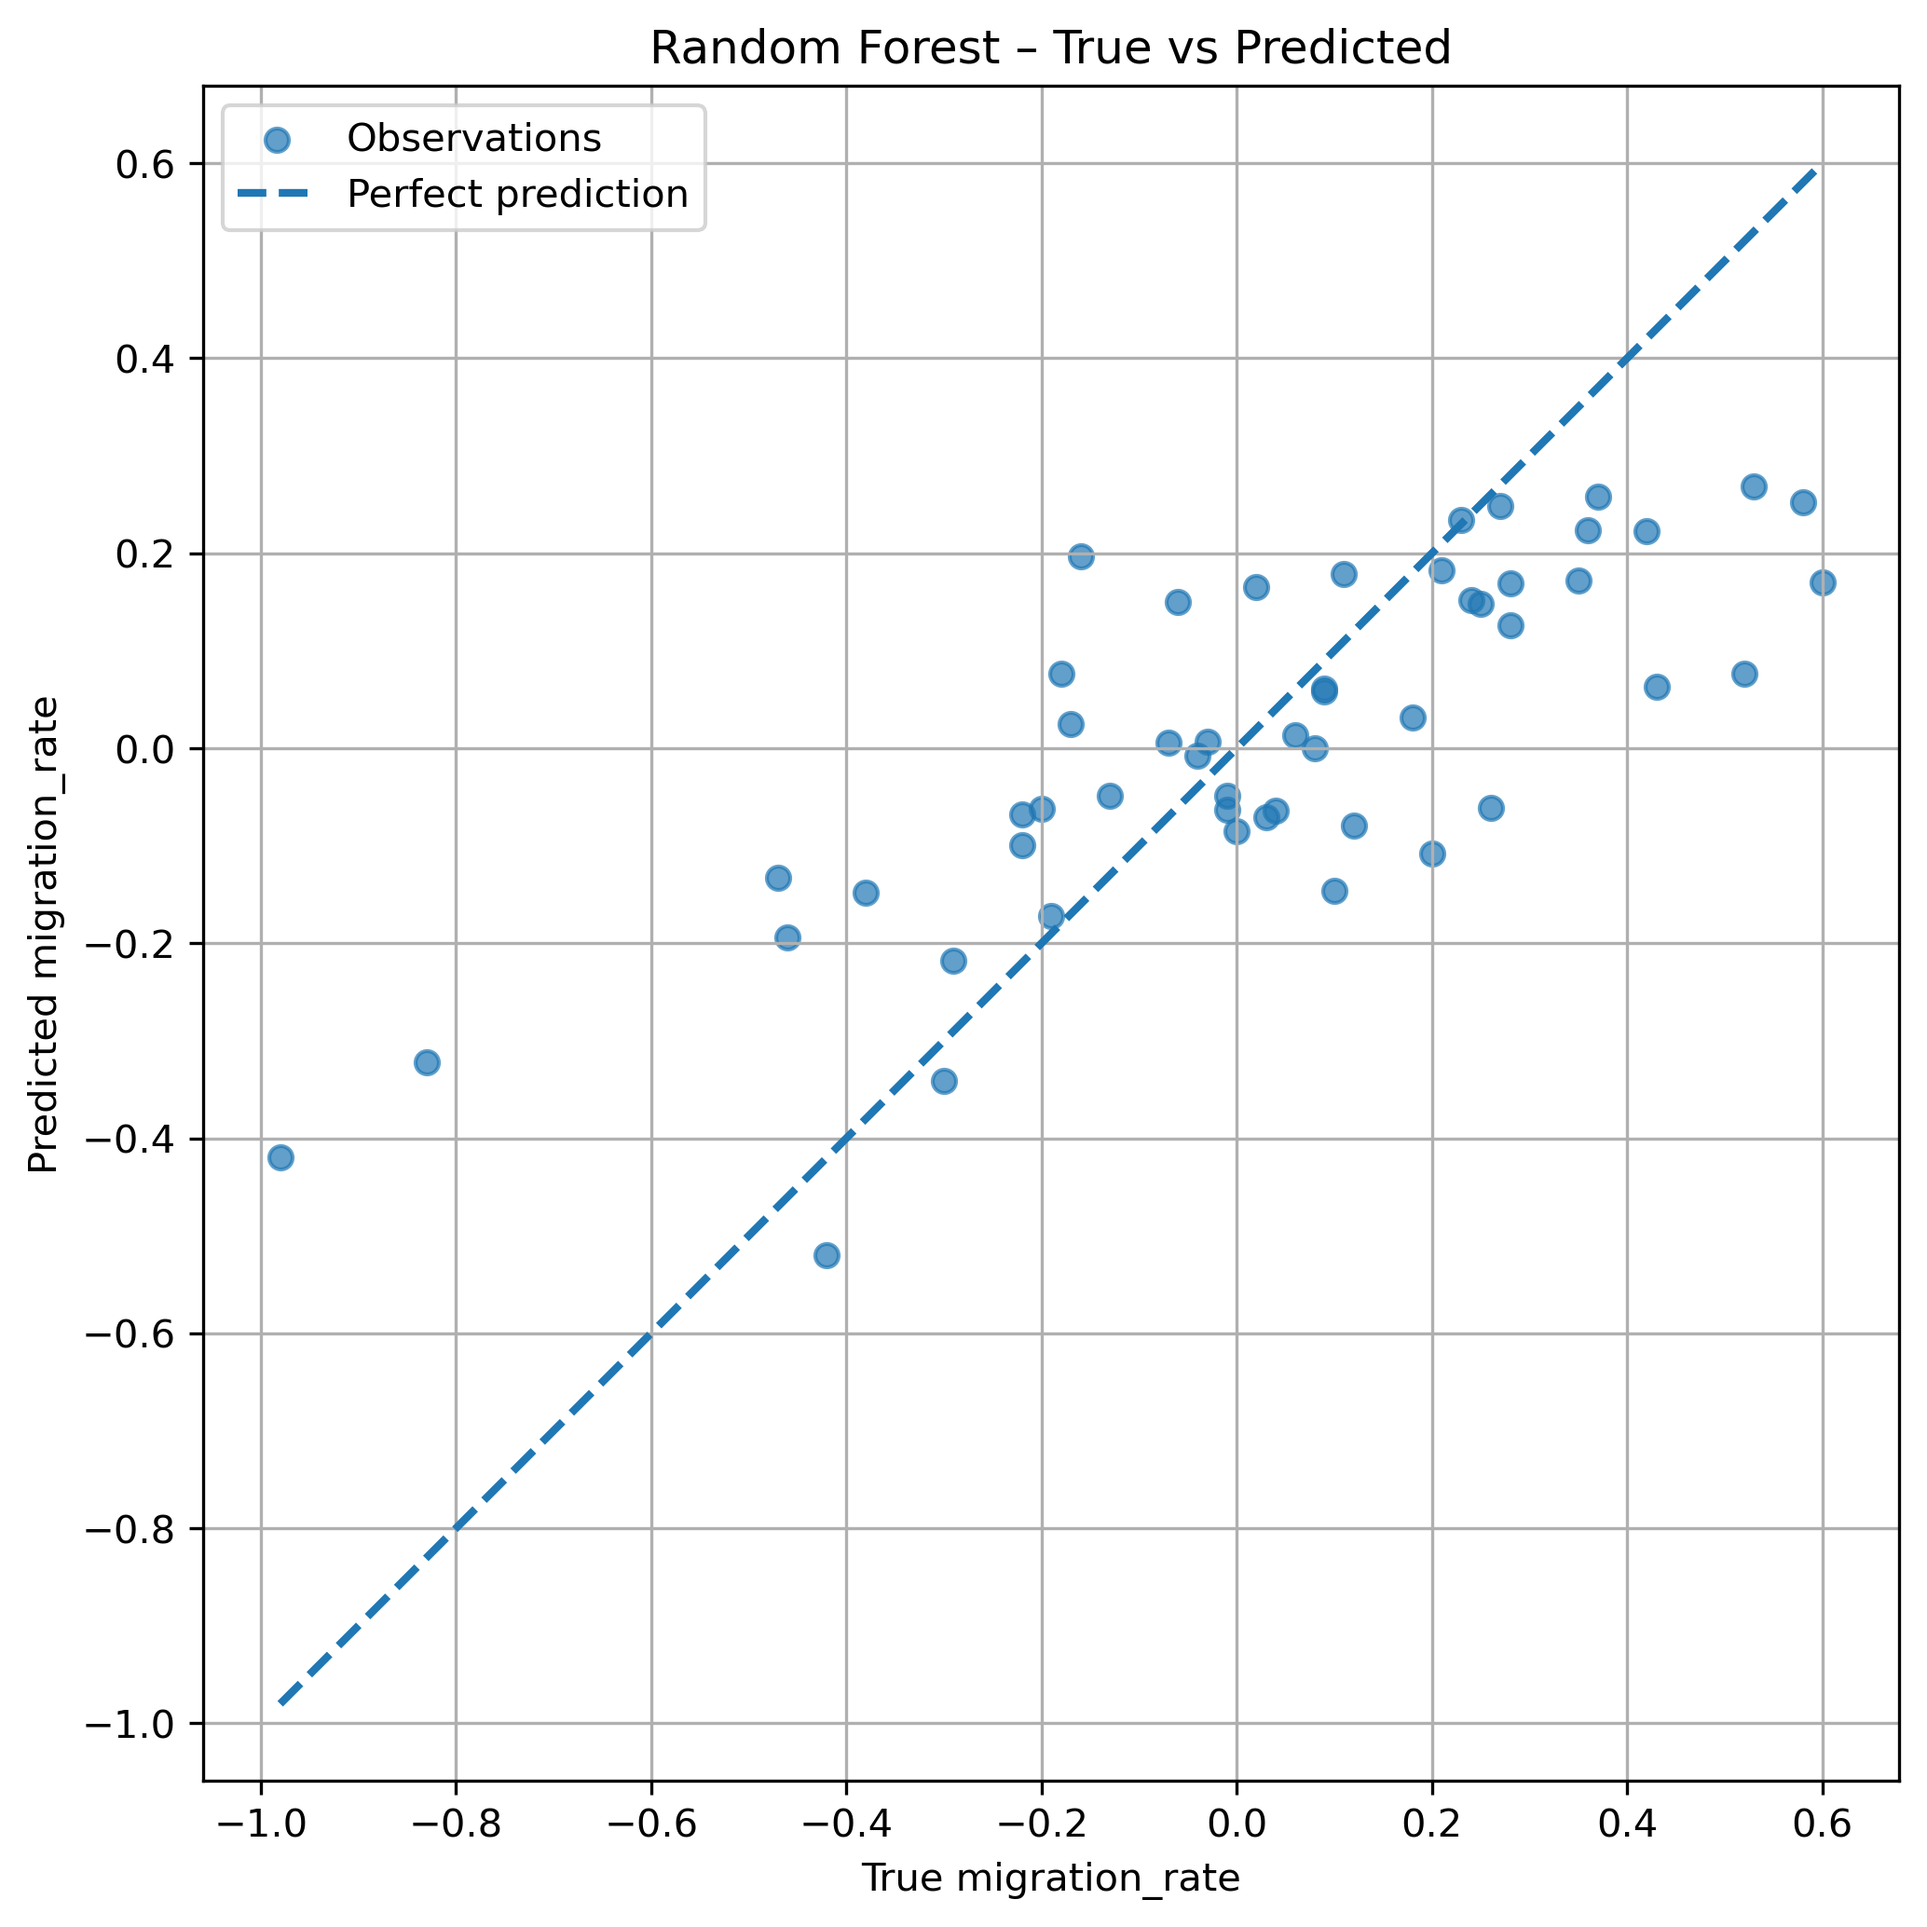
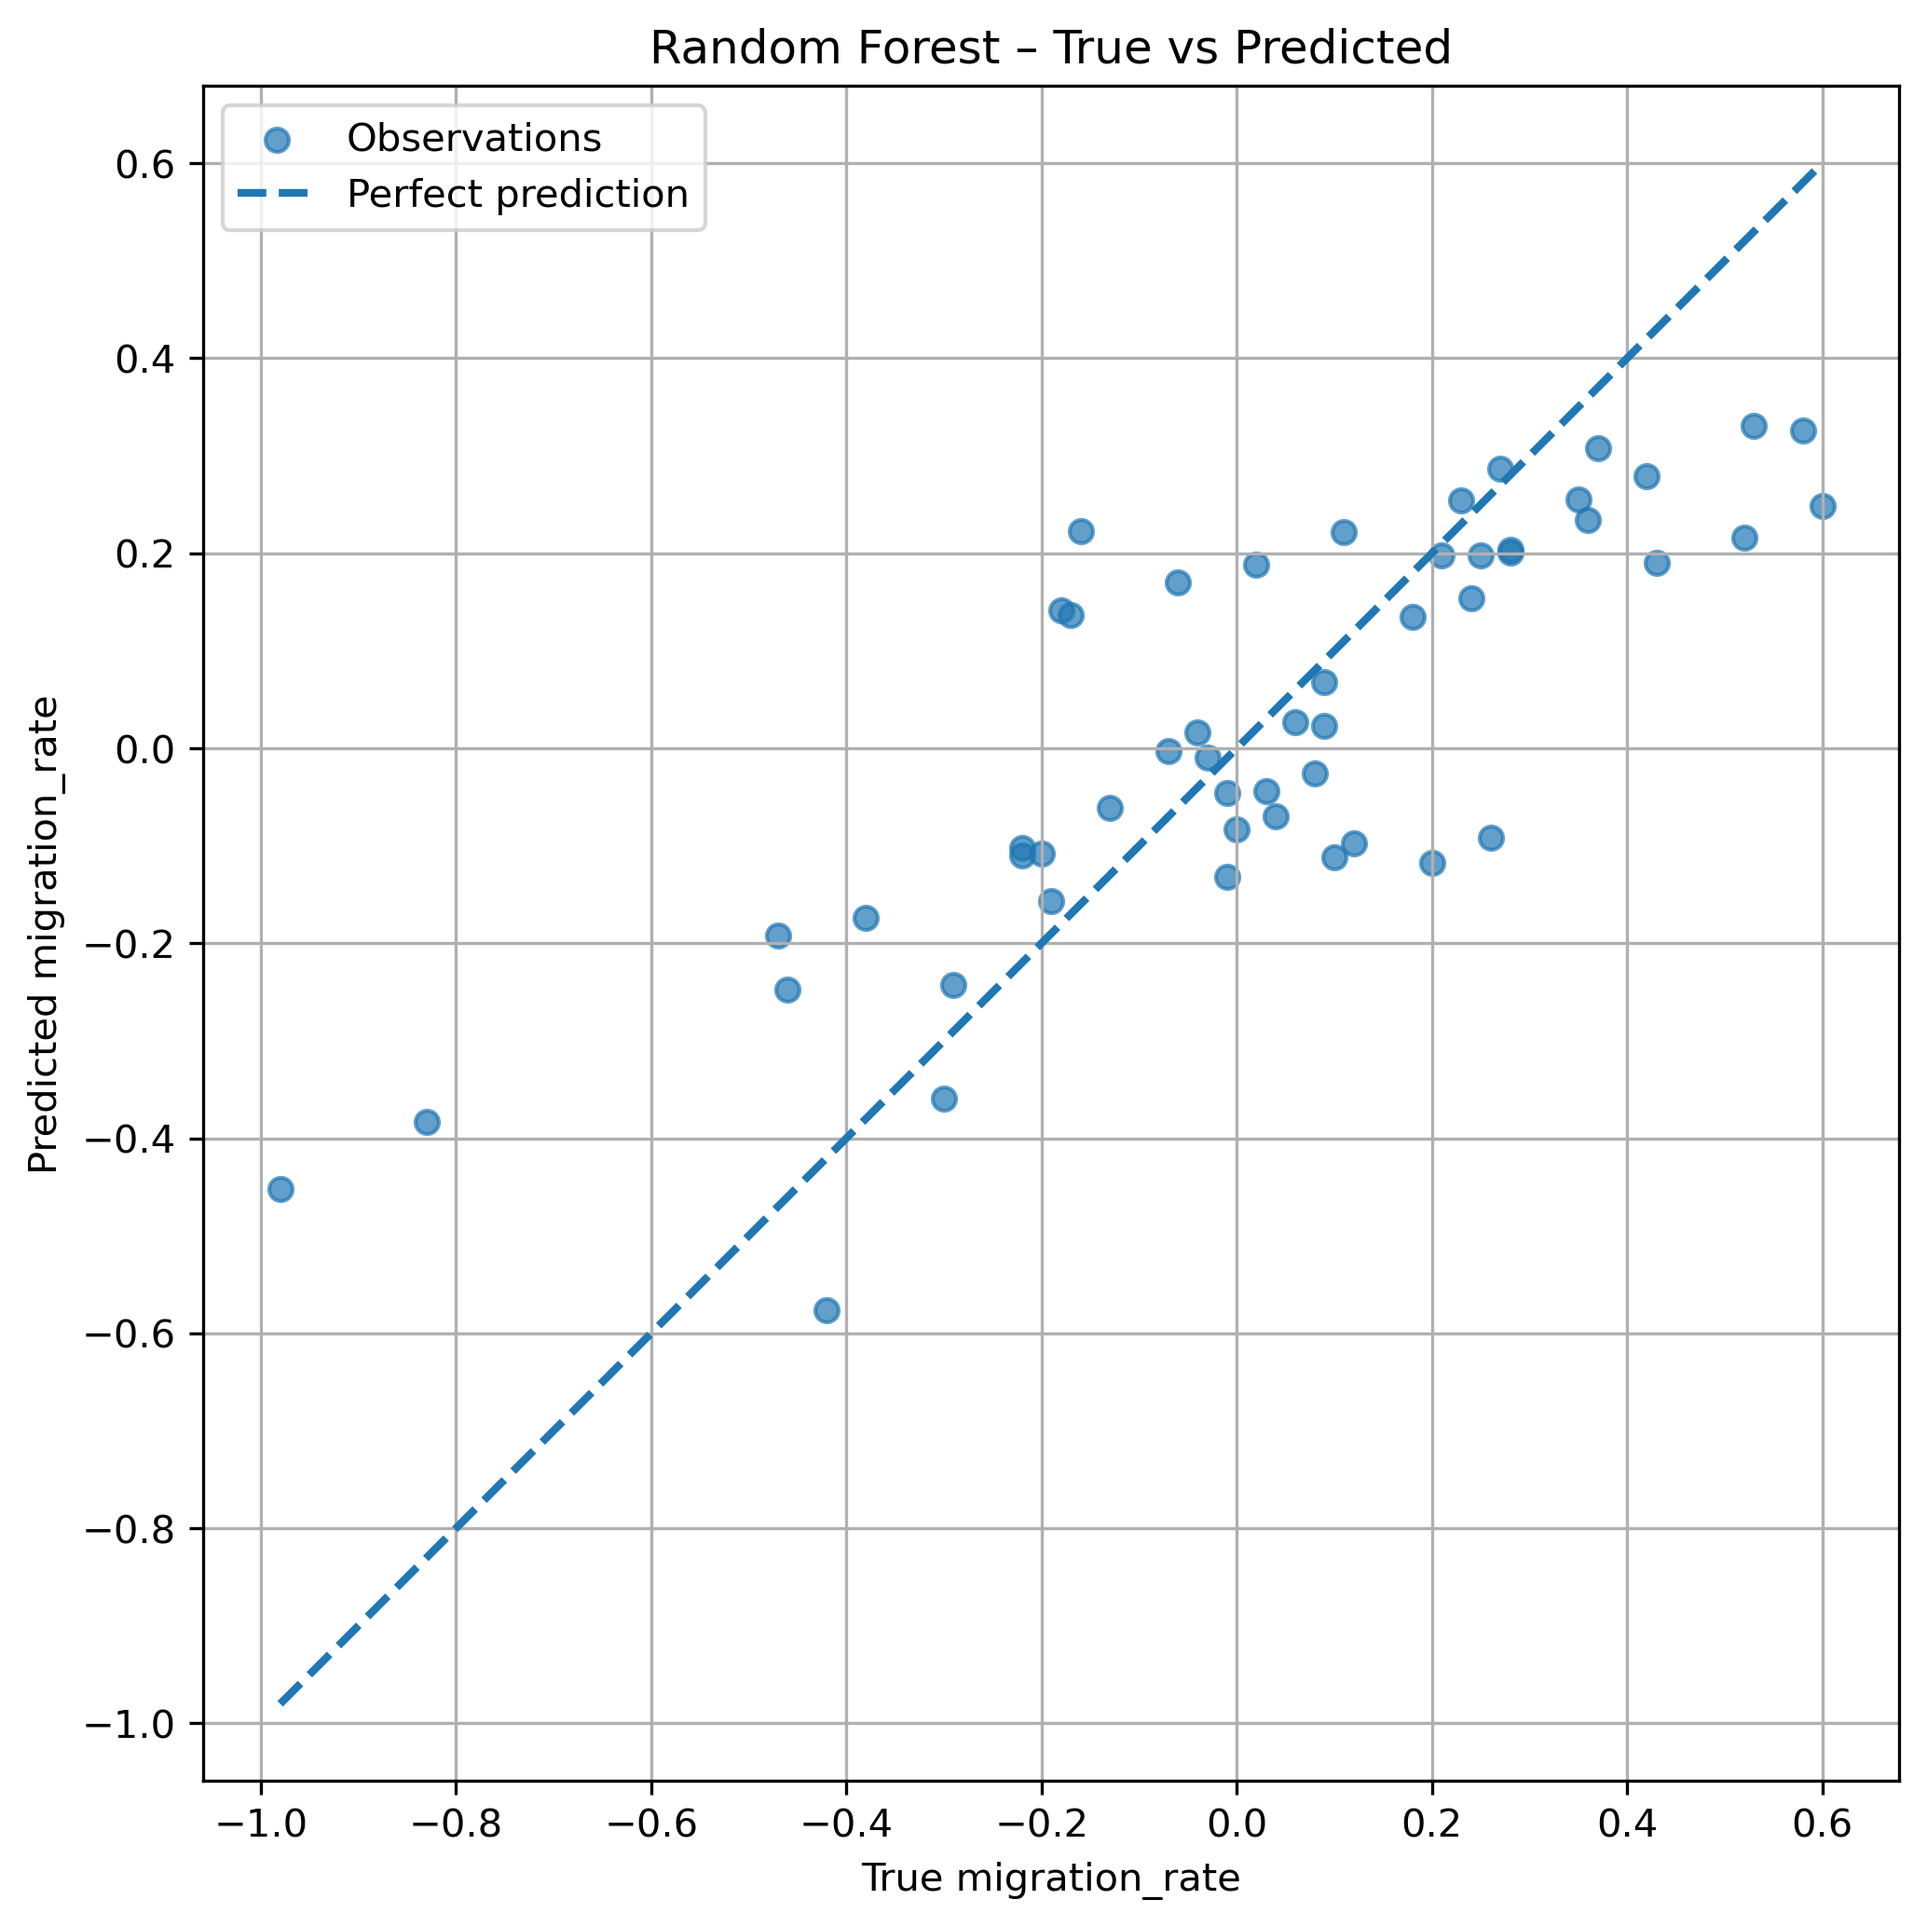
change in RF parameters

diff --git a/src/ML/randomforest/randomforest.py b/src/ML/randomforest/randomforest.py
@@ -122,10 +122,10 @@ def time_split(df: pd.DataFrame, feature_cols, target_col):
 def run_random_forest(X_train, y_train, X_test, y_test):
 
     rf = RandomForestRegressor(
-        n_estimators=300,
+    n_estimators=300,
         max_depth=6,
         min_samples_leaf=5,
-        max_features="sqrt",
+        max_features=0.5,
         random_state=0,
         n_jobs=-1
     )

diff --git a/README.md b/README.md
@@ -28,7 +28,6 @@ Console outputs:
 ## Data
 - Cleaned dataset: `data/databasecsv.csv`
 - Raw sources (OFS/BFS, SNB) used to build the dataset are included under `data/raw/` for reference.
-- A full reconstruction script is not provided; the project is reproducible for modeling results using the cleaned dataset above.
 
 ## Tests
 - Run: `pytest`
